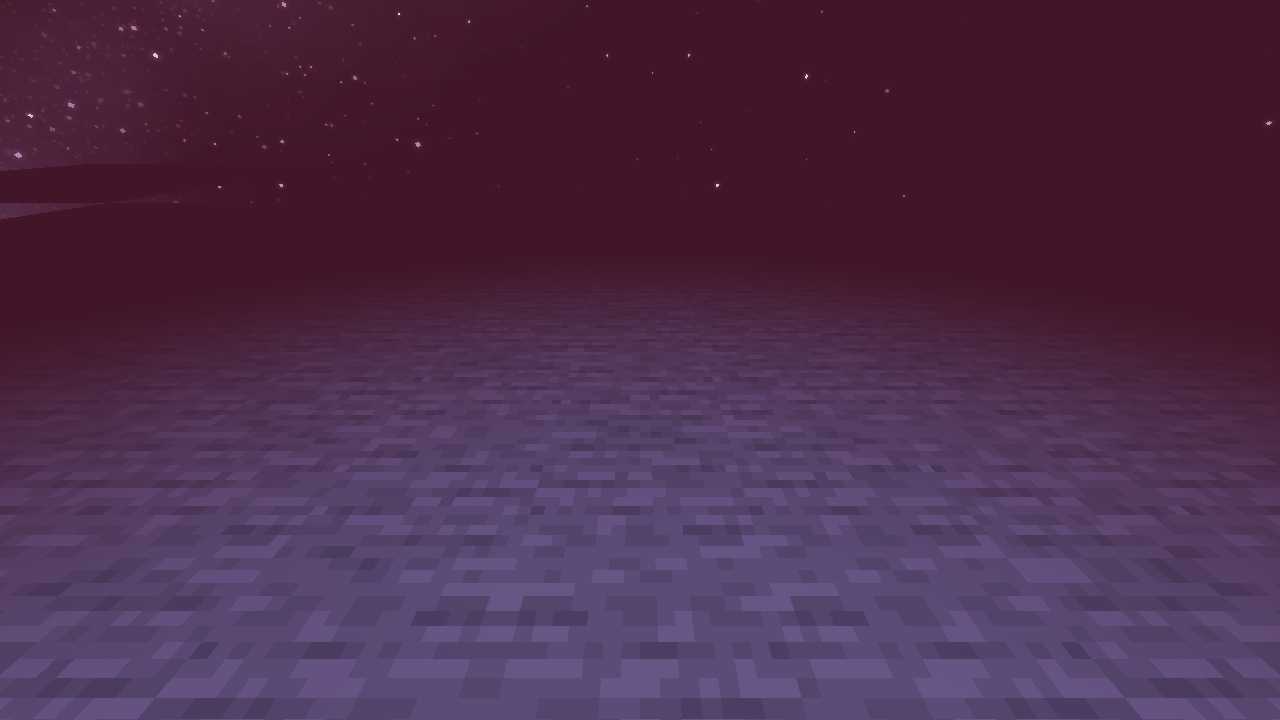
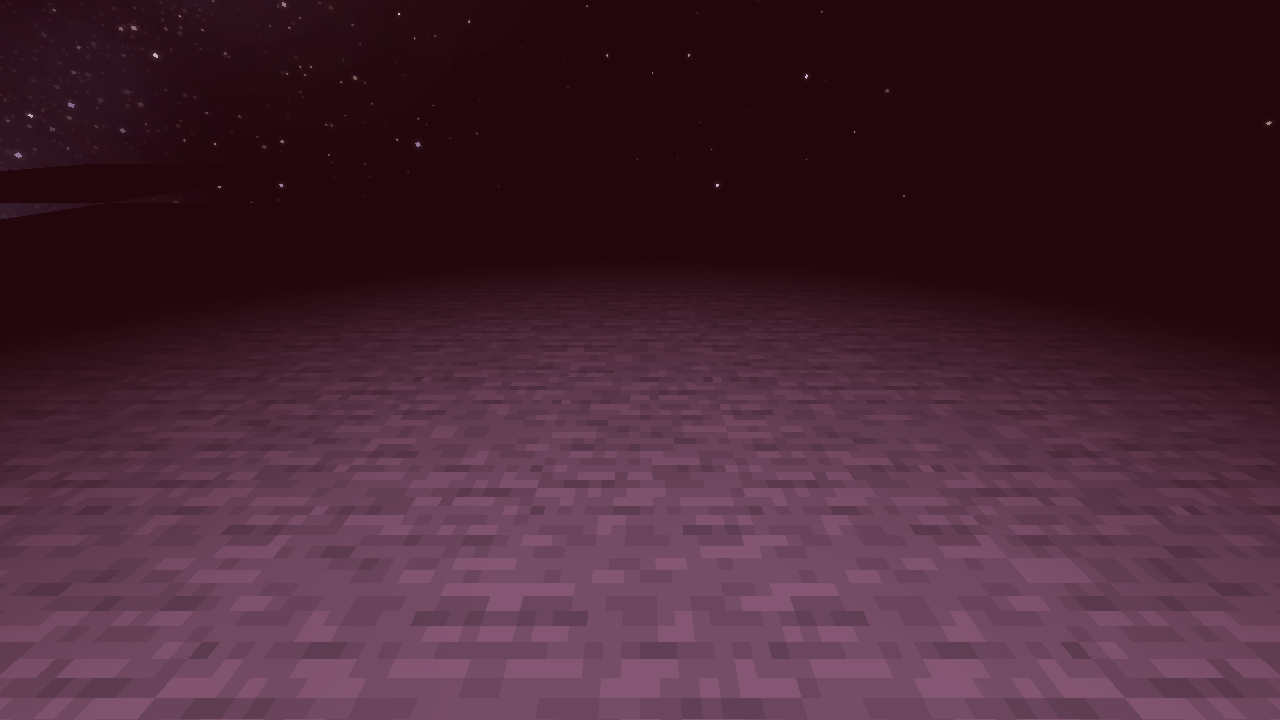
Add terrain-relative lunar fog, darker colors and cave settings

diff --git a/src/lunar/dread/MoonFogProfile.java b/src/lunar/dread/MoonFogProfile.java
@@ -1,15 +1,24 @@
 package lunar.dread;
 
-/** Pure fog curves shared by every moon phase; the actual renderer only fogs terrain. */
+import net.minecraft.core.BlockPos;
+import net.minecraft.tags.BlockTags;
+import net.minecraft.world.level.Level;
+import net.minecraft.world.level.levelgen.Heightmap;
+
+/** Bounded local sampling keeps each lunar fog close to terrain and dense in natural caves. */
 public final class MoonFogProfile {
     public record Range(float near, float far) {}
+    public record Exposure(float layer, float cave) {}
 
-    // Peak surface visibility, in blocks. Peaceful nights retain longer sight lines.
-    private static final float[] PEAK_FAR = {
+    // Surface and cave sight distances for normal, peaceful and hostile moons in MoonCycle.IDS order.
+    private static final float[] SURFACE_FAR = {
         80, 104, 72, 56, 54, 64, 7, 18, 28, 20, 30, 24, 32, 22, 20, 24
     };
+    private static final float[] CAVE_FAR = {
+        12, 12, 12, 11, 12, 12, 5, 8, 10, 8, 9, 10, 10, 9, 8, 9
+    };
     private static final float[] COLOR_WEIGHT = {
-        .25f, .24f, .28f, .34f, .34f, .32f, .86f, .58f, .48f, .58f, .48f, .46f, .42f, .52f, .5f, .55f
+        .48f, .45f, .5f, .54f, .54f, .52f, .96f, .74f, .66f, .76f, .68f, .66f, .64f, .72f, .72f, .74f
     };
 
     private MoonFogProfile() {}
@@ -19,28 +28,88 @@ public final class MoonFogProfile {
         return x * x * (3 - 2 * x);
     }
 
-    /** Starts clear at dusk, peaks around midnight, then clears completely at dawn. */
-    public static float intensity(long dayTime) {
+    public static float intensity(long dayTime) { return intensity(dayTime, 13000, 17500, 19500, 24000); }
+
+    /** The ordered config ranges make zero-duration transitions impossible. */
+    public static float intensity(long dayTime, int dusk, int peakStart, int peakEnd, int dawn) {
         long clock = Math.floorMod(dayTime, 24000);
-        if (clock < 13000) return 0;
-        if (clock < 17500) return ease((clock - 13000) / 4500f);
-        if (clock <= 19500) return 1;
-        return ease((24000 - clock) / 4500f);
+        if (clock < dusk) return 0;
+        if (clock < peakStart) return ease((clock - dusk) / (float)(peakStart - dusk));
+        if (clock <= peakEnd) return 1;
+        if (clock >= dawn) return 0;
+        return ease((dawn - clock) / (float)(dawn - peakEnd));
     }
 
-    public static float colorWeight(int kind, float intensity) {
-        return COLOR_WEIGHT[Math.clamp(kind, 0, COLOR_WEIGHT.length - 1)] * Math.clamp(intensity, 0, 1);
+    /** A soft upper edge avoids a hard horizontal line at the top of the fog bank. */
+    public static float layerWeight(float aboveSurface, float height, float topFade) {
+        float edge = Math.min(Math.max(.25f, topFade), Math.max(.25f, height));
+        return 1 - ease((aboveSurface - (height - edge)) / edge);
     }
 
-    public static Range range(int kind, float depth, float intensity, float originalNear, float originalFar,
-                              float bloodPeakFar, float otherScale) {
-        int index = Math.clamp(kind, 0, PEAK_FAR.length - 1);
-        float d = Math.clamp(depth, 0, 1), strength = Math.clamp(intensity, 0, 1);
-        float surfaceFar = index == MoonCycle.BLOOD ? bloodPeakFar : PEAK_FAR[index] * otherScale;
-        float peakFar = Math.max(2.5f, surfaceFar * (1 - d * (index == MoonCycle.BLOOD ? .52f : .38f)));
+    public static Exposure exposure(Level level, BlockPos camera, double cameraY, float height, float topFade) {
+        if (!level.hasChunkAt(camera)) return new Exposure(0, 0);
+        // WORLD_SURFACE is sent to clients; MOTION_BLOCKING_NO_LEAVES is not populated
+        // on a newly received client chunk and would incorrectly clear all surface fog.
+        int surface = groundHeight(level, camera);
+        int natural = 0;
+        if (!level.canSeeSky(camera)) {
+            // Sample only this column, twice per second. Do not scan an entire cave or chunk.
+            for (int dy = 1; dy <= 48 && camera.getY() + dy < surface + 2; dy += dy < 16 ? 1 : 2) {
+                if (natural(level, camera.above(dy)) && ++natural >= 3) break;
+            }
+            if (natural < 3 && surface - camera.getY() > 48) {
+                for (int dy = 1; dy <= 3; dy++) if (natural(level, new BlockPos(camera.getX(), surface - dy, camera.getZ()))) natural++;
+            }
+        }
+        float cave = natural >= 3 ? 1 : 0;
+        float layer = cave > 0 ? 1 : layerWeight((float)(cameraY - surface), height, topFade);
+        return new Exposure(layer, cave);
+    }
+
+    /** Follow the terrain in this column, skipping tree crowns and ordinary building materials. */
+    private static int groundHeight(Level level, BlockPos camera) {
+        int surface = level.getHeight(Heightmap.Types.WORLD_SURFACE, camera.getX(), camera.getZ());
+        for (int dy = 1; dy <= 96 && surface - dy >= level.getMinBuildHeight(); dy++) {
+            var pos = new BlockPos(camera.getX(), surface - dy, camera.getZ());
+            var block = level.getBlockState(pos);
+            if (natural(level, pos) || block.is(BlockTags.TERRACOTTA) || block.is(BlockTags.ICE)
+                || block.is(net.minecraft.world.level.block.Blocks.GRAVEL)
+                || block.is(net.minecraft.world.level.block.Blocks.CLAY)
+                || block.is(net.minecraft.world.level.block.Blocks.SNOW_BLOCK)
+                || block.is(net.minecraft.world.level.block.Blocks.SNOW)
+                || block.is(net.minecraft.world.level.block.Blocks.MOSS_BLOCK)
+                || !block.getFluidState().isEmpty()) return pos.getY() + 1;
+        }
+        // Unusual modded surfaces remain usable without a scan down an entire column.
+        return surface;
+    }
+
+    private static boolean natural(Level level, BlockPos pos) {
+        var block = level.getBlockState(pos);
+        return block.is(BlockTags.BASE_STONE_OVERWORLD) || block.is(BlockTags.DIRT) || block.is(BlockTags.SAND);
+    }
+
+    /** Caves thicken earlier than the surface but still clear completely by dawn. */
+    public static float strength(float night, float layer, float cave) {
+        float underground = Math.clamp(cave, 0, 1);
+        return Math.clamp(night * Math.clamp(layer, 0, 1) * (1 - underground)
+            + Math.min(1, night * 3) * underground, 0, 1);
+    }
+
+    public static float colorWeight(int kind, float strength, float colorScale) {
+        return Math.clamp(COLOR_WEIGHT[Math.clamp(kind, 0, COLOR_WEIGHT.length - 1)] * strength * colorScale, 0, 1);
+    }
+
+    public static Range range(int kind, float cave, float strength, float originalNear, float originalFar,
+                              float bloodSurface, float bloodCave, float otherSurfaceScale, float otherCaveScale) {
+        int index = Math.clamp(kind, 0, SURFACE_FAR.length - 1);
+        float surface = index == MoonCycle.BLOOD ? bloodSurface : SURFACE_FAR[index] * otherSurfaceScale;
+        float underground = index == MoonCycle.BLOOD ? bloodCave : CAVE_FAR[index] * otherCaveScale;
+        float peakFar = Math.max(2.5f, surface + (underground - surface) * Math.clamp(cave, 0, 1));
         float peakNear = Math.min(peakFar - .8f, index == MoonCycle.BLOOD ? .5f : Math.max(1.2f, peakFar * .12f));
-        float far = originalFar + (Math.min(originalFar, peakFar) - originalFar) * strength;
-        float near = originalNear + (Math.min(originalNear, peakNear) - originalNear) * strength;
+        float amount = Math.clamp(strength, 0, 1);
+        float far = originalFar + (Math.min(originalFar, peakFar) - originalFar) * amount;
+        float near = originalNear + (Math.min(originalNear, peakNear) - originalNear) * amount;
         return new Range(Math.min(near, far - .25f), far);
     }
 }

diff --git a/src/lunar/dread/client/MoonAtmosphere.java b/src/lunar/dread/client/MoonAtmosphere.java
@@ -38,7 +38,7 @@ public final class MoonAtmosphere {
     private static long worldAt,personalAt;
     private static boolean menu;
     private static float roll,pitch,oldRoll,oldPitch;
-    private static float fogDepth,fogTarget;
+    private static float fogLayer=1,fogLayerTarget=1,fogCave,fogCaveTarget;
     private static long navUntil;
     private static boolean navAlways;
     private static int navHash;
@@ -97,10 +97,24 @@ public final class MoonAtmosphere {
         for(var t:world.tumbling())if(t.entity()==entity.getId())return(float)(clock(partial)-t.start());
         return -1;
     }
+    private static float fogStrength(ClientLevel level){
+        if(level.dimension()!=Level.OVERWORLD)return 0;
+        float night=MoonFogProfile.intensity(level.getDayTime(),LunarDreadConfig.MOON_FOG_DUSK_START.get(),
+            LunarDreadConfig.MOON_FOG_PEAK_START.get(),LunarDreadConfig.MOON_FOG_PEAK_END.get(),
+            LunarDreadConfig.MOON_FOG_DAWN_END.get());
+        return MoonFogProfile.strength(night,fogLayer,fogCave);
+    }
     @SubscribeEvent public static void tick(ClientTickEvent.Post e){
         var mc=Minecraft.getInstance();if(mc.player==null)return;
-        if(mc.level.getGameTime()%10==0)fogTarget=lunar.dread.BloodFogProfile.depth(mc.level,mc.player.blockPosition());
-        fogDepth=Mth.lerp(.025f,fogDepth,fogTarget);
+        if(mc.level.dimension()==Level.OVERWORLD&&LunarDreadConfig.MOON_FOG_ENABLED.get()&&mc.level.getGameTime()%10==0){
+            var eye=mc.gameRenderer.getMainCamera().getPosition();
+            if(eye.distanceToSqr(mc.player.getEyePosition())>4096)eye=mc.player.getEyePosition();
+            var exposure=MoonFogProfile.exposure(mc.level,net.minecraft.core.BlockPos.containing(eye),eye.y,
+                LunarDreadConfig.MOON_FOG_LAYER_HEIGHT.get().floatValue(),LunarDreadConfig.MOON_FOG_TOP_FADE.get().floatValue());
+            fogLayerTarget=exposure.layer();fogCaveTarget=exposure.cave();
+        }
+        fogLayer=Mth.lerp(.12f,fogLayer,fogLayerTarget);
+        fogCave=Mth.lerp(.12f,fogCave,fogCaveTarget);
         if(current()){
             int hash=world.beacons().hashCode();if(hash!=navHash){navHash=hash;navUntil=mc.level.getGameTime()+100;}
         }
@@ -124,21 +138,23 @@ public final class MoonAtmosphere {
     @SubscribeEvent public static void poseEnd(RenderLivingEvent.Post<?,?> e){if(rotated.remove(e.getEntity().getId()))e.getPoseStack().popPose();}
     @SubscribeEvent public static void fog(ViewportEvent.ComputeFogColor e){
         var mc=Minecraft.getInstance();if(mc.level==null||!LunarDreadConfig.MOON_FOG_ENABLED.get()||mc.gameRenderer.getMainCamera().getFluidInCamera()!=FogType.NONE)return;
-        float strength=MoonFogProfile.intensity(mc.level.getDayTime());if(strength<=0)return;
+        float strength=fogStrength(mc.level);if(strength<=0)return;
         int phase=kind();var c=tint((float)e.getPartialTick());
-        float weight=MoonFogProfile.colorWeight(phase,strength);
-        float red=phase==MoonCycle.BLOOD?.22f:c.x*.48f;
-        float green=phase==MoonCycle.BLOOD?.008f:c.y*.48f;
-        float blue=phase==MoonCycle.BLOOD?.022f:c.z*.48f;
+        float weight=MoonFogProfile.colorWeight(phase,strength,LunarDreadConfig.MOON_FOG_COLOR_STRENGTH.get().floatValue());
+        float brightness=LunarDreadConfig.MOON_FOG_COLOR_BRIGHTNESS.get().floatValue();
+        float red=(phase==MoonCycle.BLOOD?.4f:c.x)*brightness;
+        float green=(phase==MoonCycle.BLOOD?.003333f:c.y)*brightness;
+        float blue=(phase==MoonCycle.BLOOD?.03f:c.z)*brightness;
         e.setRed(Mth.lerp(weight,e.getRed(),red));
         e.setGreen(Mth.lerp(weight,e.getGreen(),green));
         e.setBlue(Mth.lerp(weight,e.getBlue(),blue));
     }
     @SubscribeEvent public static void fogDistance(ViewportEvent.RenderFog e){
         var mc=Minecraft.getInstance();if(mc.level==null||!LunarDreadConfig.MOON_FOG_ENABLED.get()||e.getType()!=FogType.NONE||e.getMode()!=net.minecraft.client.renderer.FogRenderer.FogMode.FOG_TERRAIN)return;
-        float strength=MoonFogProfile.intensity(mc.level.getDayTime());if(strength<=0)return;
-        var profile=MoonFogProfile.range(kind(),fogDepth,strength,e.getNearPlaneDistance(),e.getFarPlaneDistance(),
-            LunarDreadConfig.BLOOD_FOG_PEAK_DISTANCE.get().floatValue(),LunarDreadConfig.MOON_FOG_DISTANCE_SCALE.get().floatValue());
+        float strength=fogStrength(mc.level);if(strength<=0)return;
+        var profile=MoonFogProfile.range(kind(),fogCave,strength,e.getNearPlaneDistance(),e.getFarPlaneDistance(),
+            LunarDreadConfig.BLOOD_FOG_PEAK_DISTANCE.get().floatValue(),LunarDreadConfig.BLOOD_CAVE_FOG_DISTANCE.get().floatValue(),
+            LunarDreadConfig.MOON_FOG_DISTANCE_SCALE.get().floatValue(),LunarDreadConfig.OTHER_CAVE_FOG_SCALE.get().floatValue());
         e.setNearPlaneDistance(profile.near());e.setFarPlaneDistance(profile.far());e.setCanceled(true);
     }
     private static MoonUpdates.Beacon nearest(){
@@ -216,5 +232,5 @@ public final class MoonAtmosphere {
             if(drawn)BufferUploader.drawWithShader(b.buildOrThrow());else b.build();
         }finally{RenderSystem.depthMask(true);RenderSystem.enableCull();RenderSystem.defaultBlendFunc();RenderSystem.disableBlend();RenderSystem.setShaderColor(1,1,1,1);}
     }
-    @SubscribeEvent public static void logout(ClientPlayerNetworkEvent.LoggingOut e){world=null;personal=null;worldLevel=null;personalLevel=null;roll=pitch=oldRoll=oldPitch=fogDepth=fogTarget=0;menu=false;rotated.clear();navUntil=0;navHash=0;navAlways=false;}
+    @SubscribeEvent public static void logout(ClientPlayerNetworkEvent.LoggingOut e){world=null;personal=null;worldLevel=null;personalLevel=null;roll=pitch=oldRoll=oldPitch=fogCave=fogCaveTarget=0;fogLayer=fogLayerTarget=1;menu=false;rotated.clear();navUntil=0;navHash=0;navAlways=false;}
 }

diff --git a/test/lunar/dread/HorrorChecks.java b/test/lunar/dread/HorrorChecks.java
@@ -36,11 +36,43 @@ public final class HorrorChecks {
                 "All sixteen phases must have names and the ash moon must expose its event command");
             check(MoonFogProfile.intensity(15000)<MoonFogProfile.intensity(17000)&&MoonFogProfile.intensity(22000)<MoonFogProfile.intensity(20000),
                 "Night fog must rise and fall rather than appearing at full strength instantly");
-            check(Math.abs(MoonFogProfile.range(MoonCycle.BLOOD,0,1,0,128,7,1).far()-7)<.01f
-                &&MoonFogProfile.range(MoonCycle.BLOOD,1,1,0,128,7,1).far()<4,
-                "Peak blood fog must obscure the road at seven blocks and be denser underground");
-            for(int phase=0;phase<MoonCycle.IDS.length;phase++)
-                check(MoonFogProfile.range(phase,0,1,0,128,7,1).far()<128,"Every moon phase needs its own ground fog");
+            check(MoonFogProfile.layerWeight(9,12,2)==1&&Math.abs(MoonFogProfile.layerWeight(11,12,2)-.5f)<.01f
+                &&MoonFogProfile.layerWeight(12,12,2)==0,
+                "The ground fog bank must have a twelve-block ceiling with a soft upper edge");
+            check(MoonFogProfile.strength(1,0,0)==0&&MoonFogProfile.strength(1,1,1)==1
+                &&MoonFogProfile.strength(0,1,1)==0,
+                "Climbing above the bank clears fog; caves stay foggy at night but clear by day");
+            check(Math.abs(MoonFogProfile.range(MoonCycle.BLOOD,0,1,0,128,7,5,1,1).far()-7)<.01f
+                &&Math.abs(MoonFogProfile.range(MoonCycle.BLOOD,1,1,0,128,7,5,1,1).far()-5)<.01f,
+                "Peak blood fog must reach seven blocks outdoors and five underground");
+            for(int phase=0;phase<MoonCycle.IDS.length;phase++){
+                check(MoonFogProfile.range(phase,0,1,0,128,7,5,1,1).far()<128,"Every moon phase needs its own ground fog");
+                if(phase!=MoonCycle.BLOOD){float cave=MoonFogProfile.range(phase,1,1,0,128,7,5,1,1).far();
+                    check(cave>=8&&cave<=12,"Other moon caves must allow eight to twelve blocks of sight: "+MoonCycle.IDS[phase]);}
+            }
+            var cave=pos.offset(14,0,9);var roofStates=new net.minecraft.world.level.block.state.BlockState[3];
+            for(int i=0;i<3;i++){roofStates[i]=l.getBlockState(cave.above(i+2));l.setBlockAndUpdate(cave.above(i+2),Blocks.STONE.defaultBlockState());}
+            try{check(MoonFogProfile.exposure(l,cave,100.6,12,2).cave()==1,"A stone-roofed cave must receive full cave fog");}
+            finally{for(int i=0;i<3;i++)l.setBlockAndUpdate(cave.above(i+2),roofStates[i]);}
+            // The same altitude can be inside a highland fog bank or above a valley's bank.
+            var highland=pos.offset(12,60,8);
+            var terrainStates=new java.util.LinkedHashMap<BlockPos,net.minecraft.world.level.block.state.BlockState>();
+            for(int y=highland.getY()-1;y<l.getMaxBuildHeight();y++){
+                var block=new BlockPos(highland.getX(),y,highland.getZ());
+                terrainStates.put(block,l.getBlockState(block));
+            }
+            try{
+                for(var block:terrainStates.keySet())l.setBlockAndUpdate(block,Blocks.AIR.defaultBlockState());
+                l.setBlockAndUpdate(highland.below(),Blocks.DIRT.defaultBlockState());
+                l.setBlockAndUpdate(highland.above(6),Blocks.OAK_PLANKS.defaultBlockState());
+                l.setBlockAndUpdate(highland.above(10),Blocks.OAK_LEAVES.defaultBlockState());
+                check(MoonFogProfile.exposure(l,highland,160.6,12,2).layer()==1,
+                    "Highland ground fog must follow the terrain rather than sea level");
+                check(MoonFogProfile.exposure(l,highland.above(13),173.6,12,2).layer()==0,
+                    "Tree crowns and wooden roofs must not raise the ground fog bank");
+                check(MoonFogProfile.exposure(l,highland,160.6,12,2).cave()==0,
+                    "A wooden shelter must not be treated as a natural stone cave");
+            }finally{for(var entry:terrainStates.entrySet())l.setBlockAndUpdate(entry.getKey(),entry.getValue());}
             MoonGravity.clear(l);p.getPersistentData().putBoolean("lunar_dread.gravity_falling",false);p.stopRiding();
             var m=MoonContent.SNATCHER.get().create(l);m.moveTo(261,100,260.5);m.setNoAi(true);l.addFreshEntity(m);mobs.add(m);unlock();
             check(AbductionController.capture(m,p)&&p.getVehicle()==m&&m.phase()==2,"Grab must use a real native carrier; busy="+MoonIncidents.busy(p)+" los="+m.hasLineOfSight(p)+" available="+AbductionController.available(l)+" passenger="+p.isPassenger());

diff --git a/src/lunar/dread/LunarDreadConfig.java b/src/lunar/dread/LunarDreadConfig.java
@@ -18,6 +18,16 @@ public final class LunarDreadConfig {
     public static final ModConfigSpec.BooleanValue MOON_FOG_ENABLED;
     public static final ModConfigSpec.DoubleValue MOON_FOG_DISTANCE_SCALE;
     public static final ModConfigSpec.DoubleValue BLOOD_FOG_PEAK_DISTANCE;
+    public static final ModConfigSpec.DoubleValue MOON_FOG_LAYER_HEIGHT;
+    public static final ModConfigSpec.DoubleValue MOON_FOG_TOP_FADE;
+    public static final ModConfigSpec.DoubleValue BLOOD_CAVE_FOG_DISTANCE;
+    public static final ModConfigSpec.DoubleValue OTHER_CAVE_FOG_SCALE;
+    public static final ModConfigSpec.DoubleValue MOON_FOG_COLOR_STRENGTH;
+    public static final ModConfigSpec.DoubleValue MOON_FOG_COLOR_BRIGHTNESS;
+    public static final ModConfigSpec.IntValue MOON_FOG_DUSK_START;
+    public static final ModConfigSpec.IntValue MOON_FOG_PEAK_START;
+    public static final ModConfigSpec.IntValue MOON_FOG_PEAK_END;
+    public static final ModConfigSpec.IntValue MOON_FOG_DAWN_END;
     public static final ModConfigSpec.DoubleValue MOON_RAY_WIDTH_SCALE;
 
     static {
@@ -67,6 +77,26 @@ public final class LunarDreadConfig {
             .defineInRange("moonFogDistanceScale", 1.0, 0.5, 2.0);
         BLOOD_FOG_PEAK_DISTANCE = client.comment("Surface sight distance at the blood moon's fog peak, in blocks; default 7.0.")
             .defineInRange("bloodFogPeakDistance", 7.0, 4.0, 24.0);
+        MOON_FOG_LAYER_HEIGHT = client.comment("Fog bank height above the local ground, in blocks. Caves ignore this limit.")
+            .defineInRange("moonFogLayerHeight", 12.0, 4.0, 64.0);
+        MOON_FOG_TOP_FADE = client.comment("Height of the soft fade at the top of the fog bank, in blocks.")
+            .defineInRange("moonFogTopFade", 2.0, 0.5, 8.0);
+        BLOOD_CAVE_FOG_DISTANCE = client.comment("Blood moon cave sight distance at peak, in blocks; default 5.0.")
+            .defineInRange("bloodCaveFogDistance", 5.0, 2.5, 16.0);
+        OTHER_CAVE_FOG_SCALE = client.comment("Scales the 8-12 block cave sight distances of other moon phases.")
+            .defineInRange("otherCaveFogDistanceScale", 1.0, 0.5, 2.0);
+        MOON_FOG_COLOR_STRENGTH = client.comment("Strength of each moon's dark fog color; 1.0 is the designed intensity.")
+            .defineInRange("moonFogColorStrength", 1.0, 0.5, 1.5);
+        MOON_FOG_COLOR_BRIGHTNESS = client.comment("Brightness of the fog's phase color; smaller values make darker fog without changing sight distance.")
+            .defineInRange("moonFogColorBrightness", 0.3, 0.05, 0.8);
+        MOON_FOG_DUSK_START = client.comment("Night tick when surface fog begins to grow. Cave fog grows faster.")
+            .defineInRange("moonFogDuskStart", 13000, 13000, 15000);
+        MOON_FOG_PEAK_START = client.comment("Night tick when fog first reaches full density.")
+            .defineInRange("moonFogPeakStart", 17500, 16500, 18000);
+        MOON_FOG_PEAK_END = client.comment("Night tick when full density ends and fog starts clearing.")
+            .defineInRange("moonFogPeakEnd", 19500, 19000, 20500);
+        MOON_FOG_DAWN_END = client.comment("Night tick when fog has cleared completely; 24000 is sunrise.")
+            .defineInRange("moonFogDawnEnd", 24000, 23000, 24000);
         MOON_RAY_WIDTH_SCALE = client.comment("Visual width of the moon strike beam and warning rings.")
             .defineInRange("moonRayWidthScale", 1.0, 0.5, 2.0);
         client.pop();

diff --git a/test/lunar/validation/client/MoonVisualProbe.java b/test/lunar/validation/client/MoonVisualProbe.java
@@ -96,6 +96,12 @@ public final class MoonVisualProbe {
             }
             float size=net.povstalec.stellarview.compatibility.enhancedcelestials.EnhancedCelestialsCompatibility.getMoonSize(mc.level,20);
             System.out.println("MOON_VISUAL_FRAME "+label+" active="+MoonClient.active(mc.level)+" phase="+MoonClient.phase()+" size="+size+" dir="+MoonClient.moonDirection+" gaze="+MoonClient.gaze()+" mark="+MoonClient.mark());
+            var eye=mc.gameRenderer.getMainCamera().getPosition();
+            var exposure=lunar.dread.MoonFogProfile.exposure(mc.level,net.minecraft.core.BlockPos.containing(eye),eye.y,
+                lunar.dread.LunarDreadConfig.MOON_FOG_LAYER_HEIGHT.get().floatValue(),lunar.dread.LunarDreadConfig.MOON_FOG_TOP_FADE.get().floatValue());
+            System.out.println("LUNAR_FOG "+label+" kind="+lunar.dread.client.MoonAtmosphere.kind()+" layer="+exposure.layer()+" cave="+exposure.cave()
+                +" surface="+mc.level.getHeight(net.minecraft.world.level.levelgen.Heightmap.Types.WORLD_SURFACE,(int)eye.x,(int)eye.z)
+                +" eye="+eye.y+" time="+mc.level.getDayTime());
             System.out.println("LUNAR_CLIENT "+label+" pos="+mc.player.position()+" velocity="+mc.player.getDeltaMovement()+" force="+lunar.dread.client.MoonAtmosphere.force(mc.player)+" tumble="+lunar.dread.client.MoonAtmosphere.tumbleAge(mc.player,0)+" pose="+mc.player.getPose()+" blackout="+lunar.dread.client.MoonAtmosphere.blackout(0));
             dev.corgitaco.enhancedcelestials.EnhancedCelestials.lunarForecastWorldData(mc.level).ifPresent(data->System.out.println("LUNAR_SKY "+label+" event="+data.currentLunarEventHolder().unwrapKey()+" blend="+data.getBlend()+" sky="+mc.level.getSkyColor(mc.player.getEyePosition(),0)+" time="+mc.level.getDayTime()));
             if (control.has("frames")) {

diff --git a/build.py b/build.py
@@ -13,7 +13,7 @@ import zipfile
 
 
 ROOT = Path(__file__).resolve().parent
-VERSION = "0.11.4"
+VERSION = "0.11.5"
 JAR_NAME = f"lunar-dread-{VERSION}.jar"
 DEPENDENCIES = {
     "Enhanced Celestials": "enhanced-celestials",

diff --git a/README.md b/README.md
@@ -25,6 +25,8 @@ Minecraft 1.21.1 客户端实拍：月相、失重、异体、动物技能与空
 | ![十六月相实机切换](docs/images/moon-phases.gif) | ![血月巨月脉动](docs/images/giant-heartbeat.gif) |
 | 血月浓雾 | 深红月面射线 |
 | ![午夜血月地面浓雾](docs/images/moon-fog.png) | ![月面射线的预警与攻击](docs/images/red-ray.gif) |
+| 血月地下雾 | 紫狱月地下雾 |
+| ![血月石顶下的浓雾](docs/images/moon-cave-fog.png) | ![紫狱月石顶下的浓雾](docs/images/moon-purple-cave-fog.png) |
 | 失重翻滚 | 怪物掳走 |
 | ![玩家失重翻滚](docs/images/gravity-tumble.gif) | ![玩家被怪物掳走](docs/images/abduction-motion.gif) |
 | 原创恐怖实体 | 月相专属异体 |
@@ -71,7 +73,11 @@ Minecraft 1.21.1 客户端实拍：月相、失重、异体、动物技能与空
 
 管理员使用 /lunardread moon set &lt;id&gt; 指定月相。
 
-所有月相都有自己的雾色。雾在入夜后渐浓，午夜最重，黎明散去；血月最浓时地表只能看清约 7 格，地下更近。月面不受地面雾遮挡。
+所有月相都有自己的深色雾。雾贴着当地地表，默认覆盖地表向上约 12 格，上沿渐隐；走到高处会脱离雾层。地表入夜后渐浓，午夜最重，黎明散尽；天然洞穴的雾更早变浓，白天同样散尽。血月峰值时地表约 7 格、地下约 5 格以外被雾遮住；其他月相的地下视距为 8–12 格，翠息月的挖掘增益仍然有效。月面不受地面雾遮挡。
+
+地下默认视距：普通、丰收、蓝、翠息、星砂月 12 格；旅风月 11 格；苍白、琥珀、青潮月 10 格；倒悬、锈雨、灰烬月 9 格；紫狱、黑镜、纸幕月 8 格；血月 5 格。
+
+雾高以所在地面的高度为基准，随山坡、高原和低谷变化，树冠和常见木质、砖质屋顶不抬高雾层。洞穴按石土覆盖识别，不受地表雾层高度限制。
 
 | ID | 月相 | 主要效果与遭遇 |
 |---|---|---|
@@ -182,7 +188,19 @@ NeoForge 首次加载后生成 config/lunar_dread-server.toml 和 config/lunar_d
 | client | visuals.moonFogEnabled | true | 月相地面雾开关 |
 | client | visuals.moonFogDistanceScale | 1.0 | 非血月雾视距倍率，0.5–2.0 |
 | client | visuals.bloodFogPeakDistance | 7.0 | 血月浓雾峰值地表视距，4–24 格 |
+| client | visuals.moonFogLayerHeight | 12.0 | 地表雾层高度，4–64 格 |
+| client | visuals.moonFogTopFade | 2.0 | 雾层顶部渐隐高度，0.5–8 格 |
+| client | visuals.bloodCaveFogDistance | 5.0 | 血月地下峰值视距，2.5–16 格 |
+| client | visuals.otherCaveFogDistanceScale | 1.0 | 其他月相地下视距倍率，0.5–2.0 |
+| client | visuals.moonFogColorStrength | 1.0 | 深色雾颜色强度，0.5–1.5 |
+| client | visuals.moonFogColorBrightness | 0.3 | 雾色亮度，0.05–0.8；越小越深，不改变视距 |
+| client | visuals.moonFogDuskStart | 13000 | 入夜起雾时间，13000–15000 tick |
+| client | visuals.moonFogPeakStart | 17500 | 满雾开始时间，16500–18000 tick |
+| client | visuals.moonFogPeakEnd | 19500 | 满雾结束时间，19000–20500 tick |
+| client | visuals.moonFogDawnEnd | 24000 | 雾完全消散时间，23000–24000 tick |
 | client | visuals.moonRayWidthScale | 1.0 | 月面射线宽度倍率，0.5–2.0 |
+
+完整客户端配置示例见 [examples/lunar_dread-client.toml](examples/lunar_dread-client.toml)。可复制到实例的 config/ 目录修改；洞穴雾视距倍率不影响地表，血月地下视距由独立参数控制。四个时间参数的取值范围保证顺序正确。
 
 管理员可在游戏中保存部分配置：
 
@@ -217,10 +235,11 @@ Linux/macOS 示例：
     export LUNAR_DREAD_DEPENDENCY_DIR=/path/to/dependency-jars
     python3 build.py
 
-输出为 dist/lunar-dread-0.11.4.jar。音效与材质已包含在 resources/，常规构建无需重新生成。
+输出为 dist/lunar-dread-0.11.5.jar。音效与材质已包含在 resources/，常规构建无需重新生成。
 
     src/lunar/dread/    Java 源码与客户端实现
     resources/         语言、声音、模型、Mixin 和手册
+    examples/          可复制的客户端 TOML 配置
     META-INF/          NeoForge 元数据与依赖声明
     test/              隔离环境使用的回归夹具
     build.py           本地构建入口
@@ -228,6 +247,8 @@ Linux/macOS 示例：
 ## 已知限制
 
 当前版本的自动事件读取 lunar_dread.sys 世界进度。单独安装时需要先初始化进度；独立日历尚未加入模组。完整依赖列表见[安装](#安装)。
+
+雾层按观察点相对当地地表的高度衰减。洞穴识别依据石土覆盖，人工厚石顶也可能使用洞穴视距。
 
 ## 问题反馈与贡献
 
